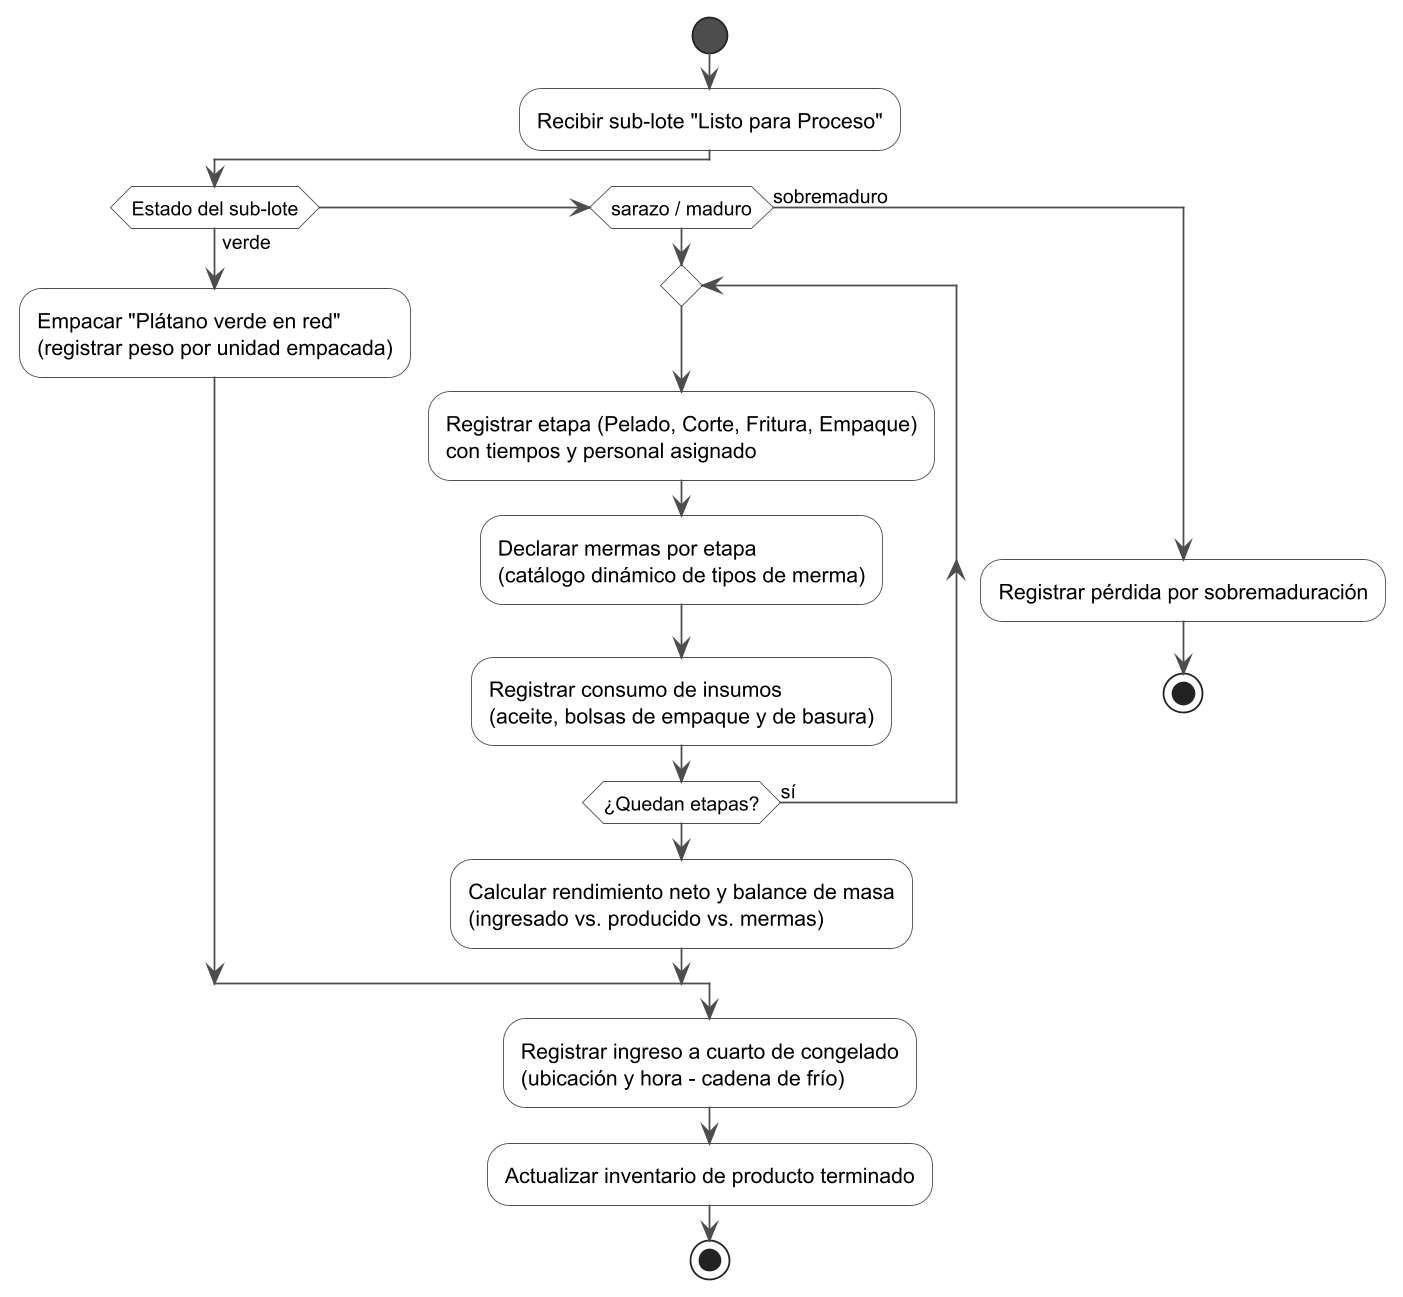
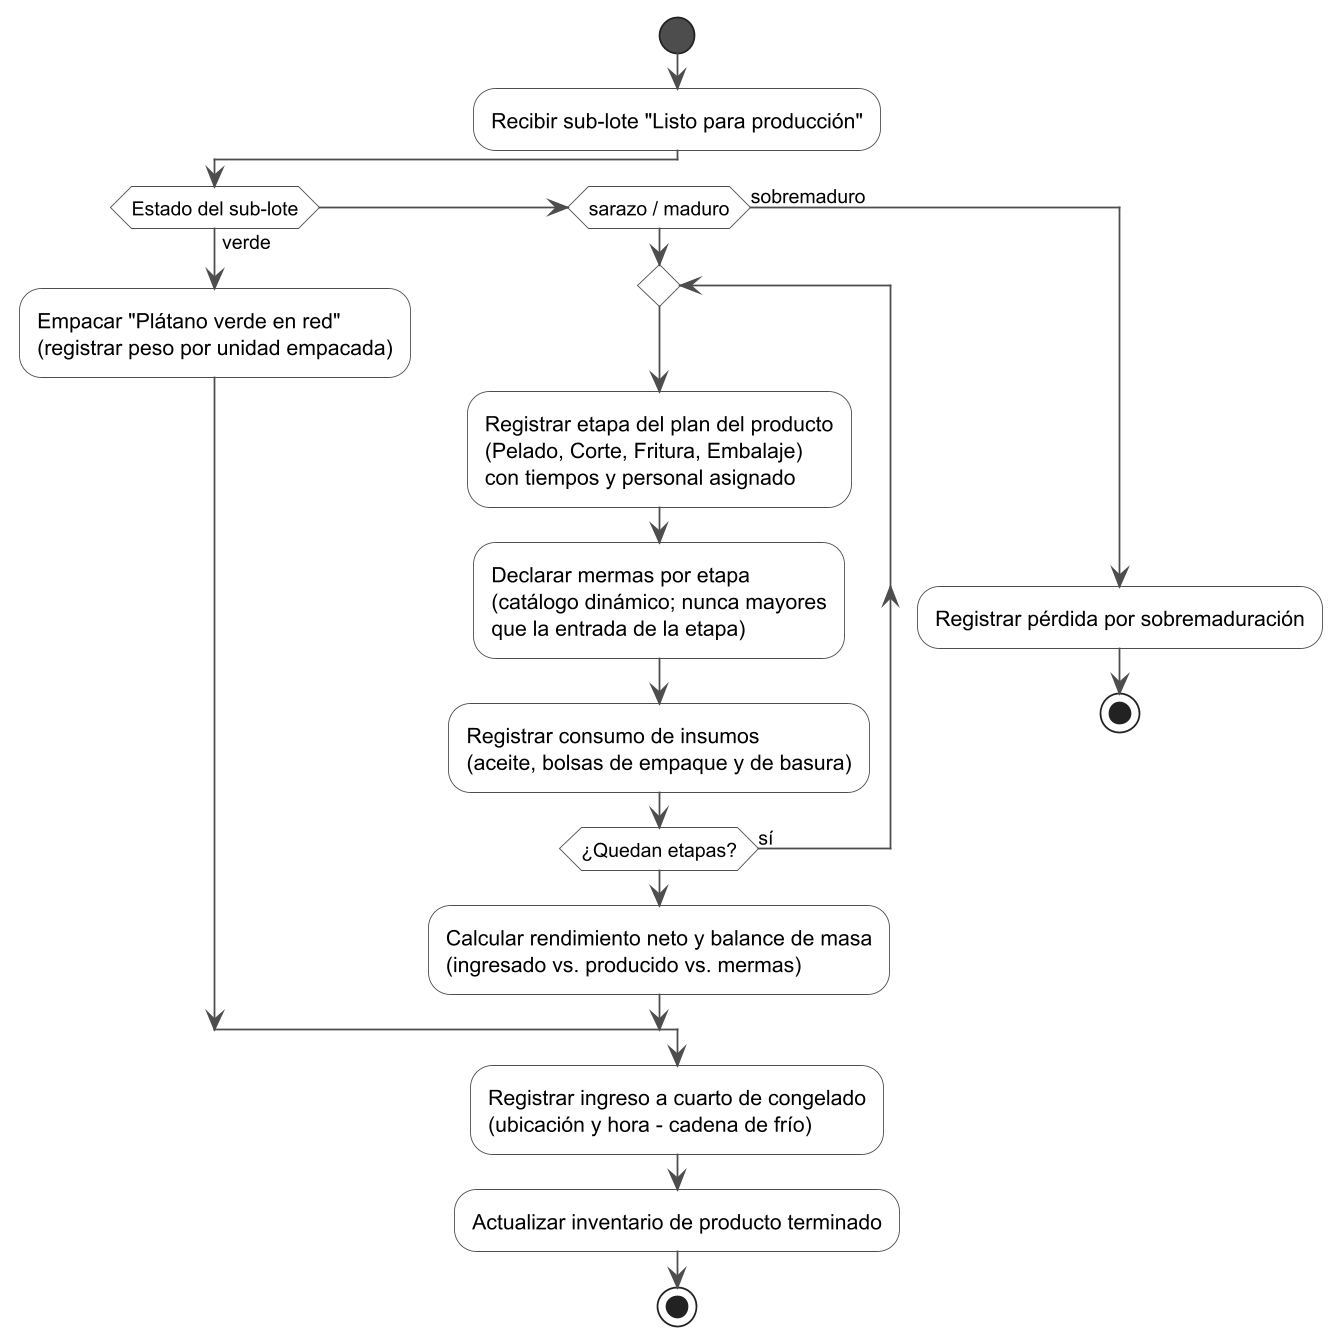
docs: alinea los diagramas de la tesis con el sistema real
- Roles reales (Administrador, Produccion, Logistica, Piloto) en casos de uso y secuencias.
- Estados reales del lote/sub-lote (Pendiente, Activo, Listo para produccion, Enviado a
  produccion) y del pedido (incluye Con Devolucion y Cancelado).
- Sin tara, inventario valorizado ni eficiencia de flota; etapa "Embalaje"; plan de etapas
  y regla de mermas en el diagrama de actividades de produccion.
- Diagrama ER con cat_cuartos_frio y codigo_trazabilidad (migraciones 2026-10-09).
- Cronograma de instalacion 21-23/10/2026 (resultados/gantt_instalacion.py).

Changed region(s): [[0.0, 0.0308, 0.9791, 0.9869], [0.6425, 0.2159, 0.6731, 0.2467]]

diff --git a/diagramas/resultados/gantt_instalacion.py b/diagramas/resultados/gantt_instalacion.py
@@ -1,0 +1,72 @@
+"""Cronograma de instalacion (3 dias) con la misma estructura que la exportacion de GanttProject.
+Uso: python gantt_instalacion.py <OUT_PNG>"""
+import sys
+from PIL import Image, ImageDraw, ImageFont
+
+OUT = sys.argv[1]
+K = 2  # escala (la imagen original es de 790x174)
+W, H = 790 * K, 174 * K
+img = Image.new('RGB', (W, H), 'white')
+d = ImageDraw.Draw(img)
+font = ImageFont.truetype('C:/Windows/Fonts/segoeui.ttf', 11 * K)
+font_b = ImageFont.truetype('C:/Windows/Fonts/segoeuib.ttf', 12 * K)
+font_title = ImageFont.truetype('C:/Windows/Fonts/segoeui.ttf', 13 * K)
+
+GRID, HEADER, BAR, BAR_EDGE, ZEBRA = (210, 210, 210), (240, 240, 240), (140, 182, 206), (70, 110, 140), (241, 241, 228)
+TASKS = [('Día 1 - Preparación del servidor', '21/10/26', 0),
+         ('Día 2 - Migración y configuración', '22/10/26', 1),
+         ('Día 3 - Configuración inicial de datos y pruebas', '23/10/26', 2)]
+DAYS = [19, 20, 21, 22, 23, 24, 25]  # lun 19 - dom 25 de octubre de 2026
+X_NAME, X_START, X_END, X_CHART = 0, 400 * K, 490 * K, 580 * K
+ROW_H, Y_HEAD, Y_BANNER = 20 * K, 94 * K, 46 * K
+DAY_W = (W - X_CHART) // len(DAYS)
+
+
+def s(v):
+    return v * K
+
+
+# banda superior (en lugar del logotipo de GanttProject)
+d.rectangle([s(35), Y_BANNER, X_CHART, Y_HEAD], fill=(95, 150, 150))
+d.text((s(50), Y_BANNER + s(13)), 'Cronograma de instalación – Distribuidora Yaneth', font=font_title, fill='white')
+# cabecera del calendario
+d.text((X_CHART + s(4), Y_BANNER + s(8)), 'octubre 2026', font=font_title, fill='black')
+d.line([X_CHART, Y_BANNER + s(32), W, Y_BANNER + s(32)], fill=GRID)
+for i, day in enumerate(DAYS):
+    x = X_CHART + i * DAY_W
+    if day in (24, 25):  # fin de semana
+        d.rectangle([x, Y_HEAD, x + DAY_W, H], fill=(246, 246, 246))
+    d.text((x + s(3), Y_BANNER + s(34)), str(day), font=font, fill='black')
+    d.line([x, Y_BANNER + s(32), x, H], fill=GRID)
+# cabecera de la tabla
+d.rectangle([0, Y_HEAD, X_CHART, Y_HEAD + ROW_H], fill=HEADER)
+for x, label in ((X_NAME, 'Nombre'), (X_START, 'Fecha de inicio'), (X_END, 'Fecha de fin')):
+    width = (X_START if x == X_NAME else (X_END if x == X_START else X_CHART)) - x
+    tw = d.textlength(label, font=font)
+    d.text((x + (width - tw) / 2, Y_HEAD + s(3)), label, font=font, fill='black')
+for x in (X_START, X_END, X_CHART):
+    d.line([x, Y_HEAD, x, H], fill=GRID)
+d.line([0, Y_HEAD + ROW_H, W, Y_HEAD + ROW_H], fill=GRID)
+
+bars = []
+for r, (name, date, offset) in enumerate(TASKS):
+    y = Y_HEAD + ROW_H * (r + 1)
+    if r % 2 == 1:
+        d.rectangle([0, y, X_CHART - 1, y + ROW_H], fill=ZEBRA)
+    d.ellipse([s(25), y + s(8), s(31), y + s(14)], fill=(150, 150, 150))
+    d.text((s(40), y + s(3)), name, font=font, fill='black')
+    d.text((X_START + s(8), y + s(3)), date, font=font, fill='black')
+    d.text((X_END + s(8), y + s(3)), date, font=font, fill='black')
+    d.line([0, y + ROW_H, W, y + ROW_H], fill=(232, 232, 232))
+    x0 = X_CHART + DAYS.index(21 + offset) * DAY_W + s(2)
+    box = [x0, y + s(4), x0 + DAY_W - s(4), y + ROW_H - s(4)]
+    d.rectangle(box, fill=BAR, outline=BAR_EDGE, width=K)
+    bars.append(box)
+# dependencias fin -> inicio
+for a, b in zip(bars, bars[1:]):
+    xm = a[2] - s(6)
+    d.line([xm, a[3], xm, b[1] + s(1)], fill='black', width=K)
+    d.polygon([(xm - s(3), b[1] - s(4)), (xm + s(3), b[1] - s(4)), (xm, b[1] + s(1))], fill='black')
+
+img.save(OUT, dpi=(96 * K, 96 * K))
+print('ok', img.size)
